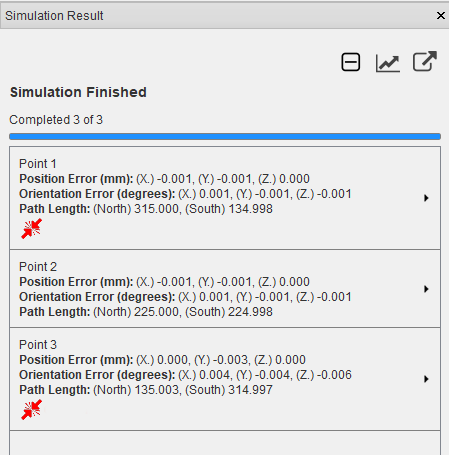
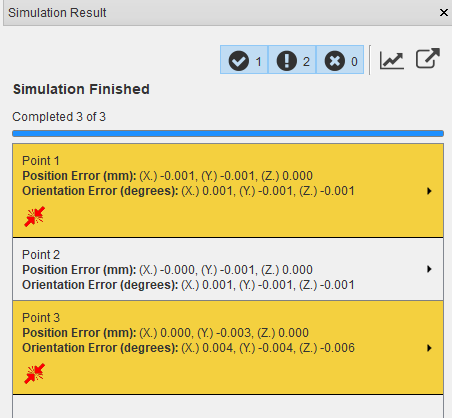
Adds filter buttons to simulation result window and makes collision a yellow simulation result

diff --git a/sscanss/app/dialogs/misc.py b/sscanss/app/dialogs/misc.py
@@ -636,6 +636,13 @@ class SimulationDialog(QtWidgets.QWidget):
         Running = 1
         Stopped = 2
 
+    @unique
+    class ResultKey(Enum):
+        Good = 0
+        Warn = 1
+        Fail = 2
+        Skip = 3
+
     def __init__(self, parent):
         super().__init__(parent)
 
@@ -650,11 +657,15 @@ class SimulationDialog(QtWidgets.QWidget):
 
         button_layout = QtWidgets.QHBoxLayout()
         button_layout.addStretch(1)
-        self._hide_skipped_results = False
-        self.hide_skipped_button = create_tool_button(tooltip='Hide Skipped Results', style_name='ToolButton',
-                                                      status_tip='Hide the skipped results in the result list',
-                                                      icon_path=path_for('minus.png'), checkable=True)
-        self.hide_skipped_button.toggled.connect(self.hideSkippedResults)
+        button_layout.setSpacing(0)
+        self.createfilterButtons(button_layout)
+
+        divider = QtWidgets.QFrame()
+        divider.setFrameShape(QtWidgets.QFrame.VLine)
+        divider.setFrameShadow(QtWidgets.QFrame.Sunken)
+        button_layout.addSpacing(5)
+        button_layout.addWidget(divider)
+        button_layout.addSpacing(5)
 
         self.path_length_button = create_tool_button(tooltip='Plot Path Length', style_name='ToolButton',
                                                      status_tip='Plot calculated path length for current simulation',
@@ -666,8 +677,8 @@ class SimulationDialog(QtWidgets.QWidget):
                                                 icon_path=path_for('export.png'))
         self.export_button.clicked.connect(self.parent.showScriptExport)
 
-        button_layout.addWidget(self.hide_skipped_button)
         button_layout.addWidget(self.path_length_button)
+        button_layout.addSpacing(5)
         button_layout.addWidget(self.export_button)
         main_layout.addLayout(button_layout)
 
@@ -708,6 +719,8 @@ class SimulationDialog(QtWidgets.QWidget):
             self.progress_bar.setMaximum(self.simulation.count)
             self.updateProgress(SimulationDialog.State.Starting)
             self.result_list.clear()
+            self.result_counts = {key: 0 for key in self.ResultKey}
+            self.filter_button_group.button(self.ResultKey.Skip.value).setVisible(False)
             self.simulation.result_updated.connect(self.showResult)
             self.simulation.stopped.connect(lambda: self.updateProgress(SimulationDialog.State.Stopped))
 
@@ -726,11 +739,61 @@ class SimulationDialog(QtWidgets.QWidget):
         if self.progress_bar.value() == self.progress_bar.maximum():
             self.progress_label.setText(f'<h3>Simulation Finished</h3>{completion}')
 
-    def hideSkippedResults(self, checked):
-        self._hide_skipped_results = checked
+    def createfilterButtons(self, filter_layout):
+        self.filter_button_group = QtWidgets.QButtonGroup()
+        self.filter_button_group.setExclusive(False)
+        self.filter_button_group.buttonClicked.connect(self.toggleResults)
+
+        hide_good_result = create_tool_button(checkable=True, checked=True, tooltip='0 results succeeded',
+                                              text='0', show_text=True, style_name='ToolButton',
+                                              icon_path=path_for('check-circle.png'))
+        hide_warn_result = create_tool_button(checkable=True, checked=True, tooltip='0 results with warnings',
+                                              text='0', show_text=True, style_name='ToolButton',
+                                              icon_path=path_for('exclamation-circle.png'))
+        hide_failed_result = create_tool_button(checkable=True, checked=True, tooltip='0 results failed', text='0',
+                                                show_text=True, style_name='ToolButton',
+                                                icon_path=path_for('times-circle.png'))
+        hide_skipped_result = create_tool_button(checkable=True, checked=True, tooltip='0 results skipped',
+                                                 hide=True, text='0', show_text=True, style_name='ToolButton',
+                                                 icon_path=path_for('minus-circle.png'))
+
+        self.filter_button_group.addButton(hide_good_result, self.ResultKey.Good.value)
+        self.filter_button_group.addButton(hide_warn_result, self.ResultKey.Warn.value)
+        self.filter_button_group.addButton(hide_failed_result, self.ResultKey.Fail.value)
+        self.filter_button_group.addButton(hide_skipped_result, self.ResultKey.Skip.value)
+        filter_layout.addWidget(hide_good_result)
+        filter_layout.addWidget(hide_warn_result)
+        filter_layout.addWidget(hide_failed_result)
+        filter_layout.addWidget(hide_skipped_result)
+
+    def toggleResults(self):
         for i in range(len(self.result_list.panes)):
-            if self.simulation.results[i].skipped:
-                self.result_list.panes[i].setVisible(not self._hide_skipped_results)
+            pane = self.result_list.panes[i]
+            key = self.getResultKey(self.simulation.results[i])
+            self.__updateFilterButton(key)
+            pane.setVisible(self.filter_button_group.button(key.value).isChecked())
+
+    def getResultKey(self, result):
+        key = self.ResultKey.Warn
+        show_collision = self.simulation.check_collision and np.any(result.collision_mask)
+        if result.skipped:
+            key = self.ResultKey.Skip
+        elif result.ik.status == IKSolver.Status.Failed:
+            key = self.ResultKey.Fail
+        elif result.ik.status == IKSolver.Status.Converged and not show_collision:
+            key = self.ResultKey.Good
+
+        return key
+
+    def __updateFilterButton(self, result_key):
+        button_id = result_key.value
+        count = self.result_counts[result_key]
+        button = self.filter_button_group.button(button_id)
+        tool_tip = button.toolTip().split(' ', 1)
+        button.setText(f'{count}')
+        button.setToolTip(f'{count} {tool_tip[1]}')
+        if button_id == 3:
+            button.setVisible(count > 0)
 
     def showResult(self, error=False):
         if self.simulation is None:
@@ -757,7 +820,6 @@ class SimulationDialog(QtWidgets.QWidget):
             else:
                 result_text = '\n'.join(
                     '{:<20}{:>12.3f}'.format(*t) for t in zip(result.joint_labels, result.formatted))
-                style = Pane.Type.Info if result.ik.status == IKSolver.Status.Converged else Pane.Type.Warn
                 pos_style = '' if result.ik.position_converged else 'style="color:red"'
                 orient_style = '' if result.ik.orientation_converged else 'style="color:red"'
                 pos_err, orient_err = result.ik.position_error, result.ik.orientation_error
@@ -773,6 +835,10 @@ class SimulationDialog(QtWidgets.QWidget):
                     info = f'{info}<br/><span><b>Path Length:</b> {path_length_info}</span>'
 
                 show_collision = self.simulation.check_collision and np.any(result.collision_mask)
+                if result.ik.status == IKSolver.Status.Converged and not show_collision:
+                    style = Pane.Type.Info
+                else:
+                    style = Pane.Type.Warn
 
                 header = self.__createPaneHeader(info, result.ik.status, show_collision)
                 details.setText(f'<pre>{result_text}</pre>')
@@ -788,11 +854,15 @@ class SimulationDialog(QtWidgets.QWidget):
 
     def __createPane(self, panel, details, style, result):
         pane = Pane(panel, details, style)
+        key = self.getResultKey(result)
+        self.result_counts[key] += 1
+        self.__updateFilterButton(key)
+        if not self.filter_button_group.button(key.value).isChecked():
+            pane.setHidden(True)
+
         if style == Pane.Type.Error or result.skipped:
             pane.setDisabled(True)
             pane.toggle_icon.hide()
-            if result.skipped and self._hide_skipped_results:
-                pane.hide()
             return pane
         action = QtWidgets.QAction('Copy', pane)
         action.setStatusTip('Copy positioner offsets to clipboard')

diff --git a/tests/test_widgets.py b/tests/test_widgets.py
@@ -133,36 +133,39 @@ class TestSimulationDialog(unittest.TestCase):
         unreachable = IKResult([87.8], IKSolver.Status.Unreachable, (0., 0., 0.), (1., 1., 0.), True, False)
         deformed = IKResult([87.8], IKSolver.Status.DeformedVectors, (0., 0., 0.), (1., 1., 0.), True, False)
 
-        self.simulation_mock.results = [SimulationResult('1', converged, (['X'], [90]), 0, (120,), [False, True]),
-                                        SimulationResult('2', not_converged, (['X'], [87.8]), 0, (25,), [True, True]),
-                                        SimulationResult('3', non_fatal, (['X'], [45]), 0),
-                                        SimulationResult('4', limit, (['X'], [87.8]), 0, (25,), [True, True]),
-                                        SimulationResult('5', unreachable, (['X'], [87.8]), 0, (25,), [True, True]),
-                                        SimulationResult('6', deformed, (['X'], [87.8]), 0, (25,), [True, True]),
-                                        SimulationResult('7', skipped=True, note='something happened')]
+        self.simulation_mock.results = [SimulationResult('1', converged, (['X'], [90]), 0, (120,), [False, False]),
+                                        SimulationResult('2', converged, (['X'], [90]), 0, (120,), [False, True]),
+                                        SimulationResult('3', not_converged, (['X'], [87.8]), 0, (25,), [True, True]),
+                                        SimulationResult('4', non_fatal, (['X'], [45]), 0),
+                                        SimulationResult('5', limit, (['X'], [87.8]), 0, (25,), [True, True]),
+                                        SimulationResult('6', unreachable, (['X'], [87.8]), 0, (25,), [True, True]),
+                                        SimulationResult('7', deformed, (['X'], [87.8]), 0, (25,), [True, True]),
+                                        SimulationResult('8', skipped=True, note='something happened')]
         self.simulation_mock.count = len(self.simulation_mock.results)
         self.simulation_mock.scene_size = 2
-
         self.model_mock.return_value.simulation = self.simulation_mock
-        self.assertFalse(self.dialog._hide_skipped_results)
-        self.dialog.hide_skipped_button.toggle()
-        self.assertTrue(self.dialog._hide_skipped_results)
+        self.dialog.filter_button_group.button(0).toggle()
         self.model_mock.return_value.simulation_created.emit()
         self.simulation_mock.result_updated.emit(False)
-        self.dialog.hide_skipped_button.toggle()
-        self.assertFalse(self.dialog._hide_skipped_results)
-        self.assertEqual(len(self.dialog.result_list.panes), 7)
+        self.dialog.filter_button_group.button(3).toggle()
+
+        self.assertEqual(self.dialog.result_counts[self.dialog.ResultKey.Good], 1)
+        self.assertEqual(self.dialog.result_counts[self.dialog.ResultKey.Warn], 5)
+        self.assertEqual(self.dialog.result_counts[self.dialog.ResultKey.Fail], 1)
+        self.assertEqual(self.dialog.result_counts[self.dialog.ResultKey.Skip], 1)
+        self.assertEqual(len(self.dialog.result_list.panes), self.simulation_mock.count)
         actions = self.dialog.result_list.panes[0].context_menu.actions()
         actions[0].trigger()  # copy action
         self.assertEqual(self.app.clipboard().text(), '90.000')
 
         self.assertTrue(self.dialog.result_list.panes[0].isEnabled())
         self.assertTrue(self.dialog.result_list.panes[1].isEnabled())
-        self.assertFalse(self.dialog.result_list.panes[2].isEnabled())
-        self.assertTrue(self.dialog.result_list.panes[3].isEnabled())
+        self.assertTrue(self.dialog.result_list.panes[2].isEnabled())
+        self.assertFalse(self.dialog.result_list.panes[3].isEnabled())
         self.assertTrue(self.dialog.result_list.panes[4].isEnabled())
         self.assertTrue(self.dialog.result_list.panes[5].isEnabled())
-        self.assertFalse(self.dialog.result_list.panes[6].isEnabled())
+        self.assertTrue(self.dialog.result_list.panes[6].isEnabled())
+        self.assertFalse(self.dialog.result_list.panes[7].isEnabled())
 
         self.model_mock.return_value.moveInstrument.reset_mock()
         self.view.scenes.renderCollision.reset_mock()

diff --git a/tests/test_ui.py b/tests/test_ui.py
@@ -637,9 +637,18 @@ class TestMainWindow(unittest.TestCase):
 
         widget = self.getDockedWidget(self.window.docks, SimulationDialog.dock_flag)
         self.assertEqual(len(widget.result_list.panes), 6)
-        self.assertFalse(widget._hide_skipped_results)
-        QTest.mouseClick(widget.hide_skipped_button, Qt.LeftButton)
-        self.assertTrue(widget._hide_skipped_results)
+        self.assertEqual(widget.result_counts[widget.ResultKey.Good], 2)
+        self.assertEqual(widget.result_counts[widget.ResultKey.Warn], 4)
+        self.assertEqual(widget.result_counts[widget.ResultKey.Fail], 0)
+        self.assertEqual(widget.result_counts[widget.ResultKey.Skip], 0)
+        QTest.mouseClick(widget.filter_button_group.button(2), Qt.LeftButton)
+        self.assertEqual([pane.isHidden() for pane in widget.result_list.panes].count(True), 0)
+        QTest.mouseClick(widget.filter_button_group.button(0), Qt.LeftButton)
+        self.assertEqual([pane.isHidden() for pane in widget.result_list.panes].count(True), 2)
+        QTest.mouseClick(widget.filter_button_group.button(1), Qt.LeftButton)
+        self.assertEqual([pane.isHidden() for pane in widget.result_list.panes].count(True), 6)
+        QTest.mouseClick(widget.filter_button_group.button(0), Qt.LeftButton)
+        self.assertEqual([pane.isHidden() for pane in widget.result_list.panes].count(True), 4)
 
         QTest.mouseClick(widget.path_length_button, Qt.LeftButton)
         path_length_plotter = self.window.findChild(PathLengthPlotter)

diff --git a/sscanss/core/util/widgets.py b/sscanss/core/util/widgets.py
@@ -38,7 +38,7 @@ def create_header(text, name='h2'):
 
 
 def create_tool_button(checkable=False, checked=False, tooltip='', style_name='', icon_path='', hide=False,
-                       text='', status_tip=''):
+                       text='', status_tip='', show_text=False):
     """Creates tool button
 
     :param checkable: flag that indicates button can be checked
@@ -57,6 +57,8 @@ def create_tool_button(checkable=False, checked=False, tooltip='', style_name=''
     :type text: str
     :param status_tip: status bar text
     :type status_tip: str
+    :param show_text: flag indicates text should be shown along with icon
+    :type show_text: bool
     :return: tool button
     :rtype: QtWidgets.QToolButton
     """
@@ -72,6 +74,9 @@ def create_tool_button(checkable=False, checked=False, tooltip='', style_name=''
 
     if icon_path:
         button.setIcon(QtGui.QIcon(icon_path))
+
+    if show_text:
+        button.setToolButtonStyle(QtCore.Qt.ToolButtonTextBesideIcon)
 
     return button
 

diff --git a/docs/simulation.rst b/docs/simulation.rst
@@ -44,8 +44,7 @@ The positioner offsets can be copied to the operating system clipboard by right 
    :align: center
 
 Any results that are skipped, for example, because the measurement point is disabled will be shown in the result list
-with the reason why the measurement is skipped. The skipped results can be hidden or shown by toggle the |hide| button
-in the **Simulation Result** window.
+with the reason why the measurement is skipped.
 
 .. image:: images/sim_skip.png
    :scale: 80
@@ -70,6 +69,18 @@ results will be highlighted in red.
    :alt: Simulation Result Runtime Error
    :align: center
 
+The filter buttons at the top of the **Simulation Result** window shows the number of the good results, results with
+warnings (i.e. collision, hardware limit violation, unconverged etc.), failed results and skipped results. Toggling off
+any of the buttons will hide the appropriate results from the result list while toggling the button on will show the
+result, for example, toggling off the first button will hide the good results only and show the other results in the
+result list. The skipped result filter will be visible only when there are skipped results in the result list.
+
+.. image:: images/sim_result_filter.png
+   :scale: 80
+   :alt: Simulation Result Filter Buttons
+   :align: center
+
+
 *********************
 Understanding Results
 *********************
@@ -91,7 +102,7 @@ The icon |unreachable| denotes that the result did not converge because the requ
 This problem can be fixed by changing the sample alignment, by modifying the measurement vectors, or using a
 positioning system with more degrees of freedom.
 
-The icon |deformed| denotes that the result did not converge because the angle between measurement vectors do no match
+The icon |deformed| denotes that the result did not converge because the angle between measurement vectors do not match
 the angle between the q-vectors of the instrument. This problem can be fixed by modifying the measurement vectors.
 
 If the reason for non-convergence cannot be found, it is recommended to re-run the simulation with hardware limits
@@ -215,9 +226,6 @@ options can be changed from the dialog:
             :scale: 10
 
 .. |plot| image:: images/plot.png
-            :scale: 10
-
-.. |hide| image:: images/minus.png
             :scale: 10
 
 .. |collision| image:: images/collision.png
